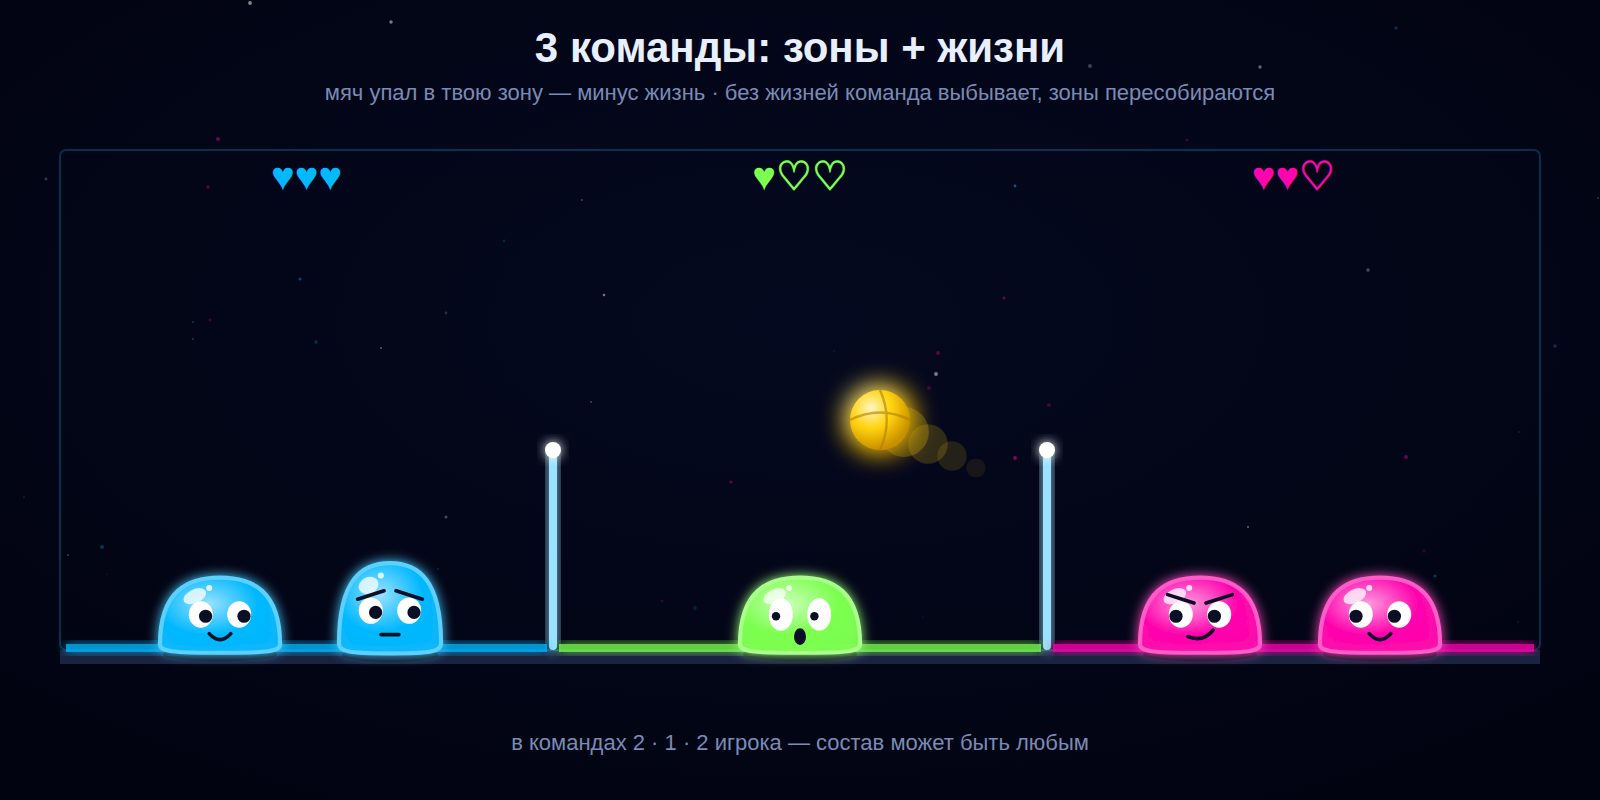
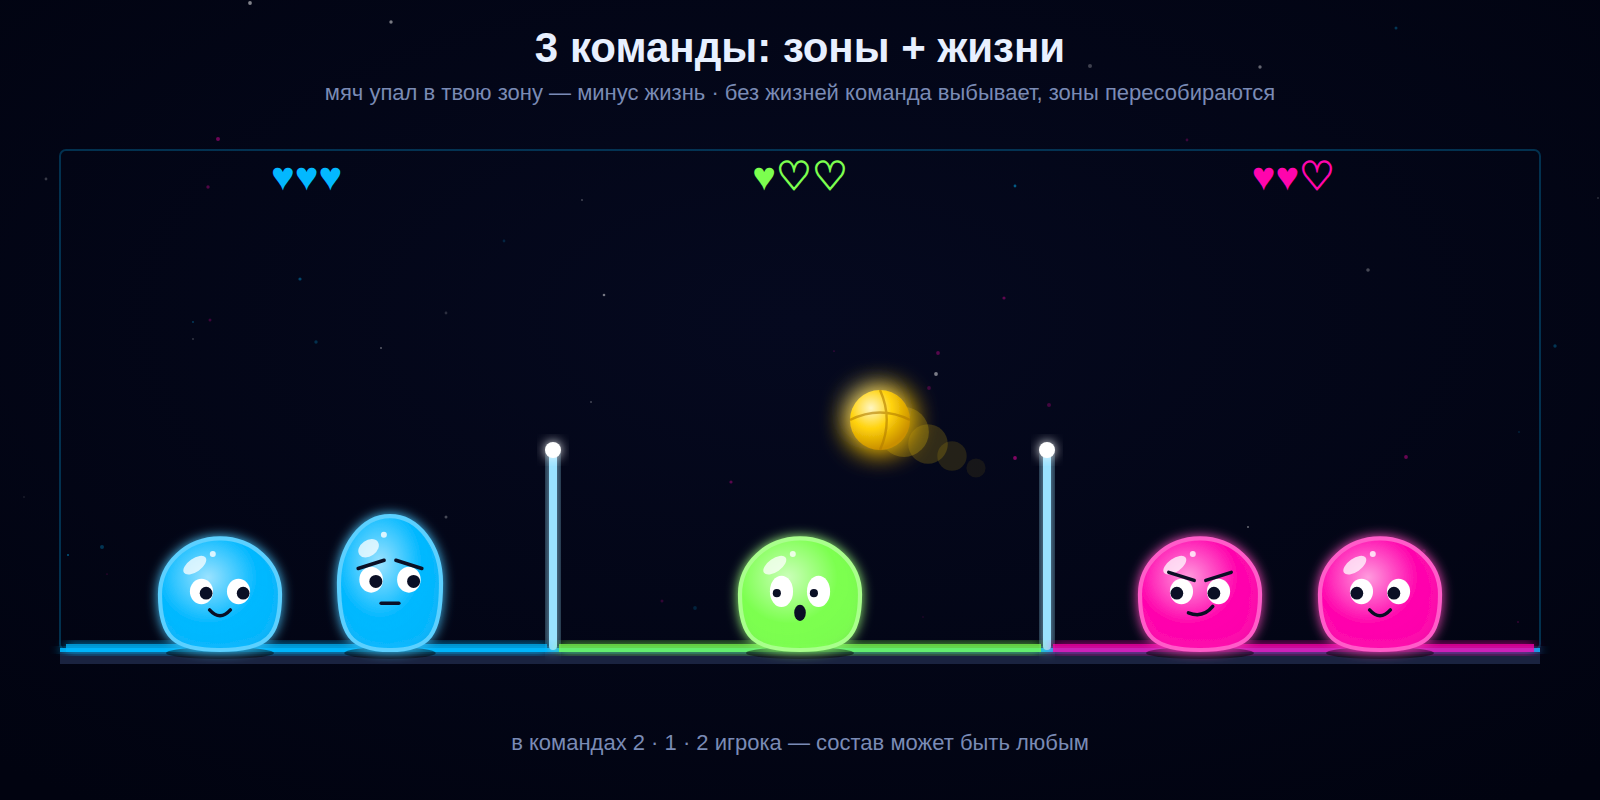
Concepts: round slime blobs by default, add jump sequence sheet
- Blob rest shape is a circle; squash/stretch preserves area
- New concept/jump: 7-frame jump + ball hit in the air
- Glowing floor lines rendered as rects (filters dropped zero-height lines)
- Art direction, GDD and view rule updated

Claude-Session: https://claude.ai/code/session_01BXW6PxpmDt9kDCAvzrahqX

Changed region(s): [[0.0312, 0.625, 0.9688, 0.8438]]

diff --git a/concept/generate_concepts.py b/concept/generate_concepts.py
@@ -59,22 +59,37 @@ def eyes(x, y, r, mood, look=0.0):
         out.append(f"<path d='M{x-r*0.15},{my+r*0.05} Q{x},{my-r*0.05} {x+r*0.15},{my+r*0.05}' stroke='#0A0F25' stroke-width='{r*0.05}' fill='none'/>")
     return "".join(out)
 
-def blob(x, y, r, col, mood="happy", sx=1.0, sy=1.0, look=0.0, dent=0.0, glow=True, opacity=1.0):
-    """(x,y) = point on floor under blob centre."""
+def blob(x, y, r, col, mood="happy", sx=1.0, sy=1.0, look=0.0, dent=0.0, glow=True, opacity=1.0,
+         ground=True, floor_y=None):
+    """Round slime ball. (x, y) = lowest point of the blob. Default shape is a circle,
+    slightly flattened when resting on the floor; sx/sy squash & stretch (keep sx*sy ~ 1)."""
     cname = {v: k for k, v in C.items()}.get(col, "cyan")
-    w = r * sx; h = r * 1.15 * sy
-    d = (f"M{x-w},{y-h*0.08} C{x-w},{y-h*0.85} {x-w*0.55},{y-h*1.05} {x},{y-h*1.05+dent*h} "
-         f"C{x+w*0.55},{y-h*1.05} {x+w},{y-h*0.85} {x+w},{y-h*0.08} "
-         f"C{x+w},{y+h*0.02} {x+w*0.8},{y+h*0.04} {x},{y+h*0.04} C{x-w*0.8},{y+h*0.04} {x-w},{y+h*0.02} {x-w},{y-h*0.08} Z")
+    if ground:
+        sy *= 0.93
+    w = r * sx; hh = r * sy
+    cx, cy = x, y - hh
+    k = 0.5523; kb = k + (0.22 if ground else 0.0)  # flatter bottom when touching the floor
+    top = cy - hh + dent * hh * 2
+    d = (f"M{cx-w},{cy} C{cx-w},{cy-hh*k} {cx-w*k},{top} {cx},{top} "
+         f"C{cx+w*k},{top} {cx+w},{cy-hh*k} {cx+w},{cy} "
+         f"C{cx+w},{cy+hh*kb} {cx+w*kb},{cy+hh} {cx},{cy+hh} "
+         f"C{cx-w*kb},{cy+hh} {cx-w},{cy+hh*kb} {cx-w},{cy} Z")
     f = " filter='url(#glow)'" if glow else ""
+    fy = y if floor_y is None else floor_y
+    shadow_k = max(0.25, 1.0 - (fy - y) / (r * 5.0))
+    re = r * min(1.0, (sx + sy) / 2)
     out = [f"<g opacity='{opacity}'>",
-           f"<ellipse cx='{x}' cy='{y+h*0.06}' rx='{w*0.95}' ry='{r*0.12}' fill='#000' opacity='0.45'/>",
+           f"<ellipse cx='{x}' cy='{fy+r*0.05}' rx='{w*0.9*shadow_k}' ry='{r*0.1*shadow_k}' fill='#000' opacity='{0.5*shadow_k:.2f}'/>",
            f"<path d='{d}' fill='url(#g_{cname})' stroke='{lighten(col,0.35)}' stroke-width='{r*0.07}'{f}/>",
-           f"<ellipse cx='{x-w*0.42}' cy='{y-h*0.78}' rx='{w*0.2}' ry='{h*0.1}' fill='white' opacity='0.75' transform='rotate(-25 {x-w*0.42} {y-h*0.78})'/>",
-           f"<circle cx='{x-w*0.18}' cy='{y-h*0.9}' r='{r*0.05}' fill='white' opacity='0.8'/>",
-           eyes(x, y - h * 0.15 + r * 0.15 * (1 - sy), r * min(1.0, (sx + sy) / 2) , mood, look),
+           f"<ellipse cx='{cx-w*0.42}' cy='{cy-hh*0.52}' rx='{w*0.22}' ry='{hh*0.12}' fill='white' opacity='0.75' transform='rotate(-35 {cx-w*0.42} {cy-hh*0.52})'/>",
+           f"<circle cx='{cx-w*0.12}' cy='{cy-hh*0.72}' r='{r*0.05}' fill='white' opacity='0.8'/>",
+           eyes(cx, cy - hh * 0.05 + re * 0.42, re, mood, look),
            "</g>"]
     return "".join(out)
+
+def dust(x, y, s=1.0):
+    return "".join(f"<circle cx='{x+dx*s}' cy='{y-dy*s}' r='{rr*s}' fill='#B8C4E8' opacity='0.35'/>"
+                   for dx, dy, rr in ((-55, 8, 10), (-35, 18, 7), (40, 10, 9), (60, 22, 6), (-70, 25, 5)))
 
 def ball(x, y, r, trail=None):
     out = []
@@ -116,7 +131,7 @@ def stars(w, h, n=60, seed=3):
 
 def court(x0, x1, floor_y, ceil_y, nets, colA=None):
     out = [f"<rect x='{x0}' y='{floor_y}' width='{x1-x0}' height='14' fill='{C['floor']}'/>",
-           f"<line x1='{x0}' y1='{floor_y}' x2='{x1}' y2='{floor_y}' stroke='{C['cyan']}' stroke-width='3' filter='url(#glow)' opacity='0.9'/>",
+           f"<rect x='{x0}' y='{floor_y-2}' width='{x1-x0}' height='4' fill='{C['cyan']}' filter='url(#glow)' opacity='0.9'/>",
            f"<rect x='{x0}' y='{ceil_y}' width='{x1-x0}' height='{floor_y-ceil_y}' fill='none' stroke='{C['cyan']}' stroke-width='2' opacity='0.25' rx='6'/>"]
     for nx, nh in nets:
         out.append(f"<rect x='{nx-4}' y='{floor_y-nh}' width='8' height='{nh}' fill='{lighten(C['cyan'],0.6)}' filter='url(#glow)' rx='4'/>")
@@ -161,7 +176,7 @@ def sheet_blobs():
         else:
             b.append(blob(x, y2, 75, C['cyan'], mood, sx, sy, dent=dent))
             if n == "удар мячом":
-                b.append(ball(x + 15, y2 - 75 * 1.15 * 0.95 - 30, 30))
+                b.append(ball(x + 10, y2 - 133, 30))
             if n == "прыжок":
                 b.append(f"<path d='M{x-70},{y2-40} l0,30 M{x+70},{y2-40} l0,30 M{x-55},{y2-110} l0,22 M{x+55},{y2-110} l0,22' stroke='{C['cyan']}' stroke-width='4' opacity='0.5' stroke-linecap='round'/>")
         b.append(text(x, y2 + 50, n, 22, C['sub'], weight="normal"))
@@ -204,9 +219,9 @@ def sheet_gameplay():
     b.append(f"<g filter='url(#glow)' opacity='0.85'><ellipse cx='{ux}' cy='{uy}' rx='70' ry='20' fill='#3a3f5a' stroke='{C['lime']}' stroke-width='3'/><ellipse cx='{ux}' cy='{uy-14}' rx='32' ry='22' fill='{C['lime']}' opacity='0.5'/></g>")
     b.append(f"<polygon points='{ux-30},{uy+18} {ux+30},{uy+18} {ux+90},{floor} {ux-90},{floor}' fill='{C['lime']}' opacity='0.07'/>")
     # players
-    b.append(blob(430, floor, 80, C['cyan'], "angry", 0.9, 1.15, look=1))
-    b.append(f"<path d='M400,{floor+5} l-20,0 M420,{floor+5} l-25,0' stroke='{C['cyan']}' opacity='0.4' stroke-width='4'/>")
-    b.append(blob(1150, floor, 80, C['mag'], "scared", 1.1, 0.95, look=-1))
+    b.append(blob(500, floor - 190, 66, C['cyan'], "angry", 0.9, 1.12, look=1, ground=False, floor_y=floor))
+    b.append(f"<path d='M478,{floor-170} l0,45 M500,{floor-174} l0,60 M522,{floor-170} l0,45' stroke='{C['cyan']}' opacity='0.35' stroke-width='4' stroke-linecap='round'/>")
+    b.append(blob(1150, floor, 66, C['mag'], "scared", look=-1))
     b.append(ball(640, 360, 34, trail=(-22, 18)))
     # pickups
     b.append(pickup(260, 470, "🍄")); b.append(pickup(1000, 420, "🌀"))
@@ -312,6 +327,59 @@ def sheet_multiteam():
     b.append(text(800, 750, "в командах 2 · 1 · 2 игрока — состав может быть любым", 22, C['sub'], weight="normal"))
     save("multi-team", svg(W, H, "".join(b)))
 
-for f in (sheet_blobs, sheet_gameplay, sheet_buffs, sheet_storyboard, sheet_multiteam):
+
+# ---------- 6. jump sequence ----------
+def sheet_jump():
+    W, H = 1800, 1250
+    b = [stars(W, H, 50), text(W/2, 64, "Прыжок: покадрово", 44),
+         text(W/2, 102, "блоб по умолчанию — круглый шарик · тянется и сплющивается, сохраняя объём", 22, C['sub'], weight="normal")]
+    fl = 640; R = 62
+    b.append(f"<rect x='40' y='{fl}' width='{W-80}' height='4' fill='{C['cyan']}' opacity='0.7' filter='url(#glow)'/>")
+    frames = [  # x, lift (bottom above floor), sx, sy, ground, mood, label
+        (130, 0, 1.0, 1.0, True, "happy", "1. покой"),
+        (380, 0, 1.3, 0.72, True, "angry", "2. присед"),
+        (630, 25, 0.74, 1.38, False, "angry", "3. отрыв"),
+        (880, 230, 0.9, 1.12, False, "happy", "4. подъём"),
+        (1130, 330, 1.0, 1.0, False, "smug", "5. пик"),
+        (1380, 200, 0.88, 1.15, False, "scared", "6. падение"),
+        (1630, 0, 1.5, 0.58, True, "dead", "7. приземление"),
+    ]
+    pts = " ".join(f"{fx},{fl-lift-R*sy}" for fx, lift, sx, sy, g, m, l in frames)
+    b.append(f"<polyline points='{pts}' fill='none' stroke='{C['ball']}' stroke-width='3' stroke-dasharray='8 10' opacity='0.45'/>")
+    for fx, lift, sx, sy, g, mood, label in frames:
+        mood = "happy" if mood == "dead" else mood
+        b.append(blob(fx, fl - lift, R, C['cyan'], mood, sx, sy, look=0.6, ground=g, floor_y=fl))
+        b.append(text(fx, fl + 52, label, 22, C['text'], weight="normal"))
+    b.append(dust(630, fl)); b.append(dust(1630, fl, 1.3))
+    b.append(text(1630, fl + 84, "→ отскок и колыхание", 18, C['sub'], weight="normal"))
+    for fx, lift in ((630, 25), (880, 230)):
+        yb = fl - lift
+        b.append(f"<path d='M{fx-22},{yb+18} l0,40 M{fx},{yb+14} l0,55 M{fx+22},{yb+18} l0,40' stroke='{C['cyan']}' stroke-width='4' opacity='0.35' stroke-linecap='round'/>")
+    # row 2: hit in the air
+    fl2 = 1150; R2 = 62; lift = 110
+    b.append(text(60, 800, "УДАР МЯЧОМ В ПРЫЖКЕ", 24, C['mag'], anchor="start"))
+    b.append(f"<rect x='40' y='{fl2}' width='{W-80}' height='4' fill='{C['mag']}' opacity='0.7' filter='url(#glow)'/>")
+    def top_of(sx, sy, dent):
+        hh = R2 * sy
+        return fl2 - lift - 2 * hh + dent * hh * 2
+    # 1. ball incoming from upper right
+    t = top_of(1.0, 1.0, 0)
+    b.append(blob(300, fl2 - lift, R2, C['mag'], "angry", 1.0, 1.0, look=0.5, ground=False, floor_y=fl2))
+    b.append(ball(370, t - 70, 30, trail=(-22, 20)))
+    # 2. contact: dent on top, blob squashed
+    t = top_of(1.18, 0.85, 0.14)
+    b.append(blob(900, fl2 - lift, R2, C['mag'], "scared", 1.18, 0.85, dent=0.14, ground=False, floor_y=fl2))
+    b.append(f"<ellipse cx='900' cy='{t - 24}' rx='34' ry='25' fill='url(#ballG)' filter='url(#glowBig)'/>")
+    b.append(f"<path d='M850,{t-10} l-22,-12 M950,{t-10} l22,-12 M900,{t-58} l0,-18' stroke='white' stroke-width='4' opacity='0.6' stroke-linecap='round'/>")
+    # 3. ball flies off, blob wobbles
+    t = top_of(0.92, 1.1, 0)
+    b.append(blob(1500, fl2 - lift, R2, C['mag'], "smug", 0.92, 1.1, look=1, ground=False, floor_y=fl2))
+    b.append(ball(1680, t - 40, 30, trail=(26, 20)))
+    b.append(f"<path d='M1420,{t+40} q-18,14 0,28 M1580,{t+40} q18,14 0,28' stroke='{C['mag']}' stroke-width='4' fill='none' opacity='0.55'/>")
+    for hx, label in ((300, "1. мяч летит на блоб"), (900, "2. касание: вмятина сверху"), (1500, "3. мяч отлетает, блоб колышется")):
+        b.append(text(hx, fl2 + 52, label, 22, C['text'], weight="normal"))
+    save("jump", svg(W, H, "".join(b)))
+
+for f in (sheet_jump, sheet_blobs, sheet_gameplay, sheet_buffs, sheet_storyboard, sheet_multiteam):
     f()
 print("ok")

diff --git a/concept/art-direction.md b/concept/art-direction.md
@@ -20,10 +20,10 @@
 | Второстепенный текст | приглушённый стальной синий `#7A8BB5` |
 
 ## Блобы
-- Форма капли: плоское дно и купол сверху. Толстая светлая обводка цвета команды, внутри градиент от светлого центра к насыщенному краю.
+- **По умолчанию блоб — круглый шарик.** На полу он лишь чуть приплюснут снизу. Капля и блин — только деформации в движении. Толстая светлая обводка цвета команды, внутри градиент от светлого центра к насыщенному краю.
 - **Блик-«капля»** сверху слева, двигается и сплющивается вместе с телом. Именно он продаёт «желе».
 - Большие глаза, простые эмоции: спокойствие, сосредоточенность, ужас, злорадство, «умер» (крестики).
-- **Деформация:** приземление → блин, прыжок → вытянутая капля, удар → вмятина, гигант → колыхание.
+- **Деформация** сохраняет объём (сжался по высоте — расширился по ширине): присед → приплюснут, отрыв → вытянут вверх, пик прыжка → идеальный круг, падение → слегка вытянут, приземление → блин и колыхание, удар мячом → вмятина. Покадрово — в `jump.png`.
 - **Конечности от бафов:** руки и ноги на «резинке» (толстая линия с изгибом), на концах кулачки, перчатки или ботинки. Появляются с «чпок»-эффектом и исчезают с ним же.
 
 ## Свет и glow
@@ -45,6 +45,7 @@
 | Файл | Что показывает |
 |---|---|
 | `blobs.png` / `.svg` | Персонажи, эмоции, деформации, конечности |
+| `jump.png` / `.svg` | Прыжок покадрово и удар мячом в прыжке |
 | `gameplay.png` / `.svg` | Макет экрана: арена, HUD, тач-кнопки, пикапы |
 | `buffs.png` / `.svg` | Иконки бафов и событий |
 | `storyboard.png` / `.svg` | Раскадровка смешных моментов для клипов |

diff --git a/docs/design/GDD.md b/docs/design/GDD.md
@@ -137,7 +137,7 @@
 ## 9. Визуальный стиль
 
 - **2D**, тёмный фон, **неон с glow**. Игровые объекты — самые яркие на экране.
-- **Блобы — желейные слаймы:** тянутся, плющатся, колышутся, на них остаются вмятины. Блик двигается вместе с деформацией.
+- **Блобы — круглые желейные шарики-слаймы** (по умолчанию круг, хитбокс тоже круг): тянутся, плющатся, колышутся, на них остаются вмятины. Блик двигается вместе с деформацией.
 - **Руки и ноги временно вырастают от способностей.** Смешные, на резинке, с кулачками или ботинками.
 - Эмоции на лицах: испуг, когда падает потолок; злорадство после удачного удара.
 - Подробнее: [`../../concept/art-direction.md`](../../concept/art-direction.md).

diff --git a/.claude/rules/view.md b/.claude/rules/view.md
@@ -7,5 +7,6 @@ paths:
 - Pure function of SimState (+ local interpolation); never write to sim.
 - 2D, dark neon, glow; gameplay objects brightest. Details: `concept/art-direction.md`.
 - Blob = spring-ring soft body (16–24 pts) + highlight + outline; limbs appear from buffs.
+- Blob rest shape = circle (slightly flat on floor); squash/stretch preserves area. Ref: `concept/jump.png`.
 - Renderer: Compatibility (web/mobile). Keep 60fps on low-end phones.
 - Touch: left half = move drag; right = Jump + Action. Local 2P hidden on mobile (`OS.has_feature("mobile")`).
